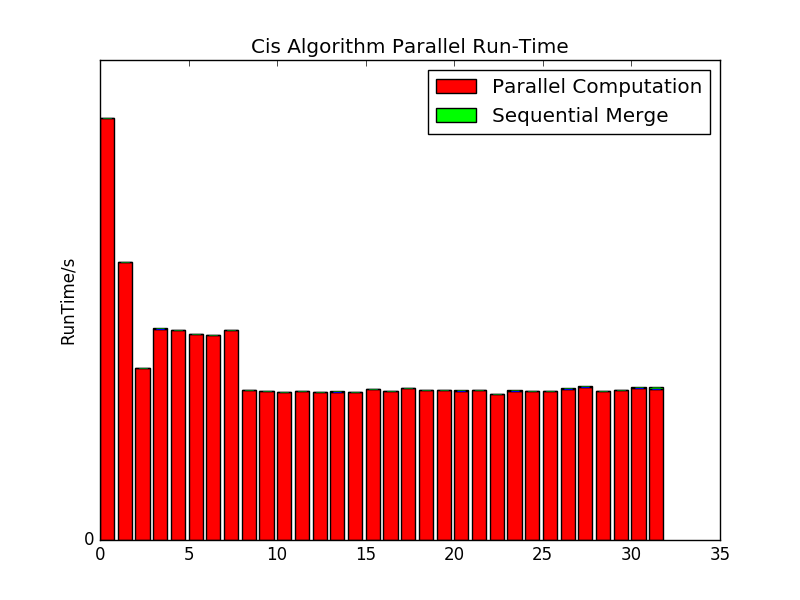
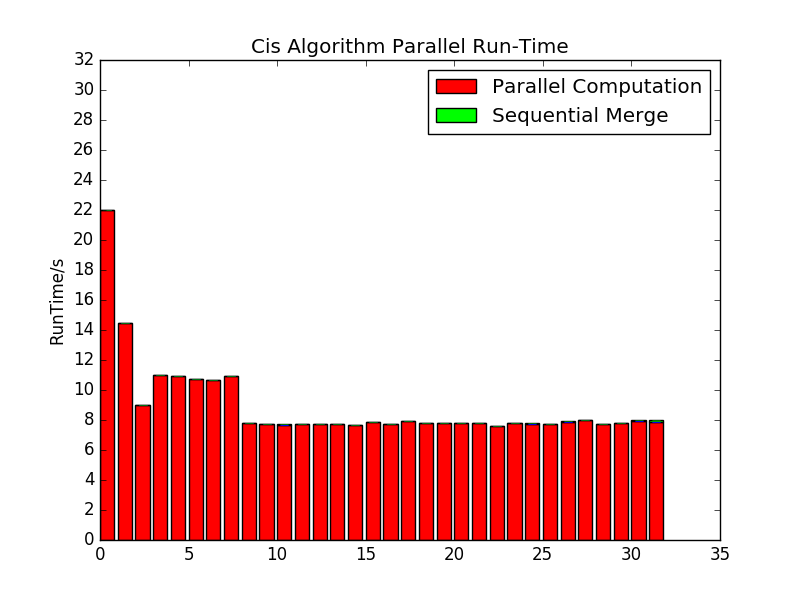
update util

diff --git a/Codes-Yche/util/get_statistics.py b/Codes-Yche/util/get_statistics.py
@@ -41,7 +41,7 @@ def get_count_time_map(file_pattern, file_dir):
 
 
 def draw_bar(tuple_list, title_name):
-    N = 32
+    N = len(tuple_list)
     bar_one_tuple = ()
     bar_two_tuple = ()
     for my_tuple in tuple_list:
@@ -63,10 +63,11 @@ def draw_bar(tuple_list, title_name):
     plt.ylabel('RunTime/s')
     plt.title(title_name)
     max_val = max(enumerate(bar_two_tuple), key=lambda x: x[1])[1]
-    print max_val
-    plt.yticks(np.arange(0, max_val * 3, 1))
+    max_val2 = max(enumerate(bar_one_tuple), key=lambda x: x[1])[1]
+    max_val = max(max_val, max_val2)
+    print 'max_val:' + str(max_val)
+    plt.yticks(np.arange(0, max_val * 1.5, round(max_val / 8, 1)))
     plt.legend((p1[0], p2[0]), ('Parallel Computation', 'Sequential Merge'))
-
     plt.show()
 
 
@@ -77,6 +78,6 @@ pattern_demon = re.compile(my_prefix_str + '.*demon.*')
 get_count_time_map(pattern_cis, my_dir)
 print '\n'
 my_tuple_list = get_count_time_map(pattern_demon, my_dir)
-draw_bar(my_tuple_list, 'Demon Algorithm Parallel Run-Time')
+draw_bar(my_tuple_list, 'Demon Algorithm Parallel Run-Time On ' + my_prefix_str)
 my_tuple_list = get_count_time_map(pattern_cis, my_dir)
-draw_bar(my_tuple_list, 'Cis Algorithm Parallel Run-Time')
+draw_bar(my_tuple_list, 'Cis Algorithm Parallel Run-Time On ' + my_prefix_str)
